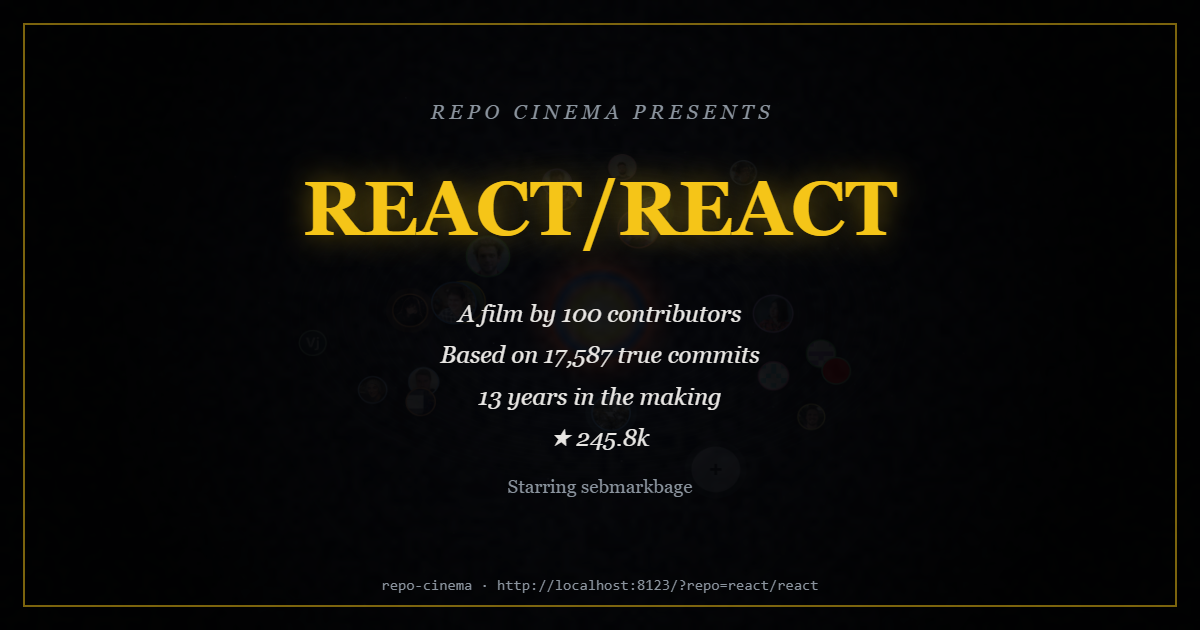
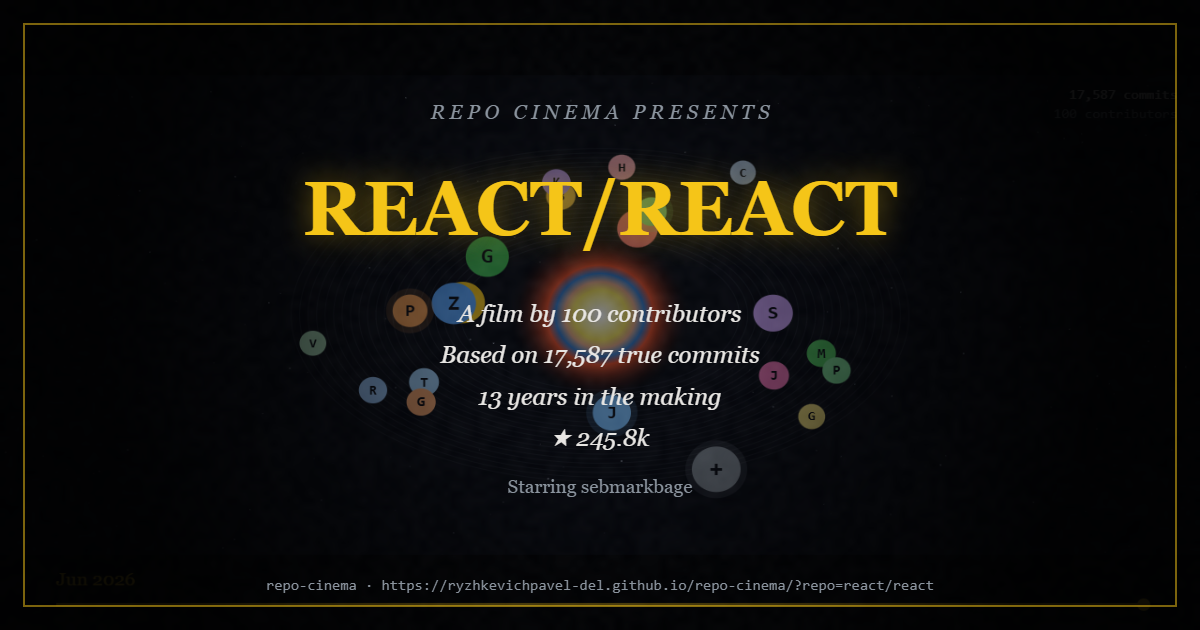
chore: finalize launch assets

diff --git a/index.html b/index.html
@@ -44,7 +44,7 @@
 
     <div id="error-box" class="hidden"></div>
   </div>
-  <footer class="start-footer"><span id="footer-text">no backend · no build · no tracking · </span><a href="https://github.com" target="_blank" rel="noopener">MIT</a></footer>
+  <footer class="start-footer"><span id="footer-text">no backend · no build · no tracking · </span><a href="https://github.com/ryzhkevichpavel-del/repo-cinema" target="_blank" rel="noopener">MIT</a></footer>
 </div>
 
 <!-- ============ LOADING SCREEN ============ -->

diff --git a/README.md b/README.md
@@ -12,12 +12,9 @@ bursts of activity, and a closing poster you'll actually want to share.
 
 ![Repo Cinema demo](docs/demo.gif)
 
-*(placeholder — record a short screen capture of the `react` demo playing and
-save it as `docs/demo.gif`)*
-
 ## 🍿 Try it live
 
-**https://&lt;your-user&gt;.github.io/repo-cinema/?repo=facebook/react**
+**https://ryzhkevichpavel-del.github.io/repo-cinema/?repo=facebook/react**
 
 Or click one of the built-in demos (`react`, `linux`, `vscode`) — they play
 instantly from bundled snapshots, no API calls, no rate limit spent.